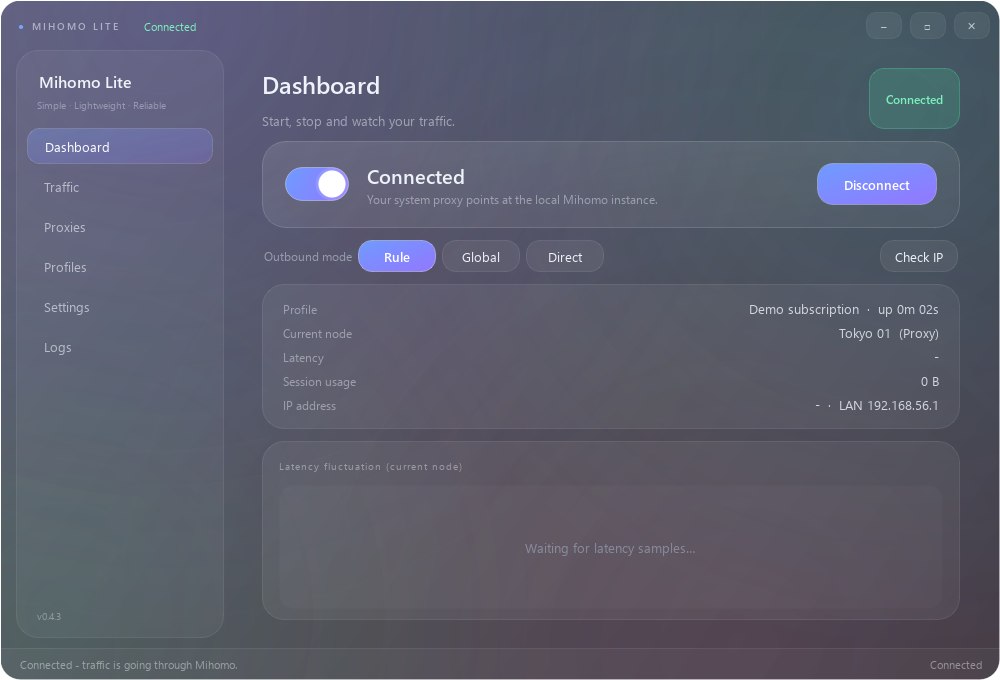
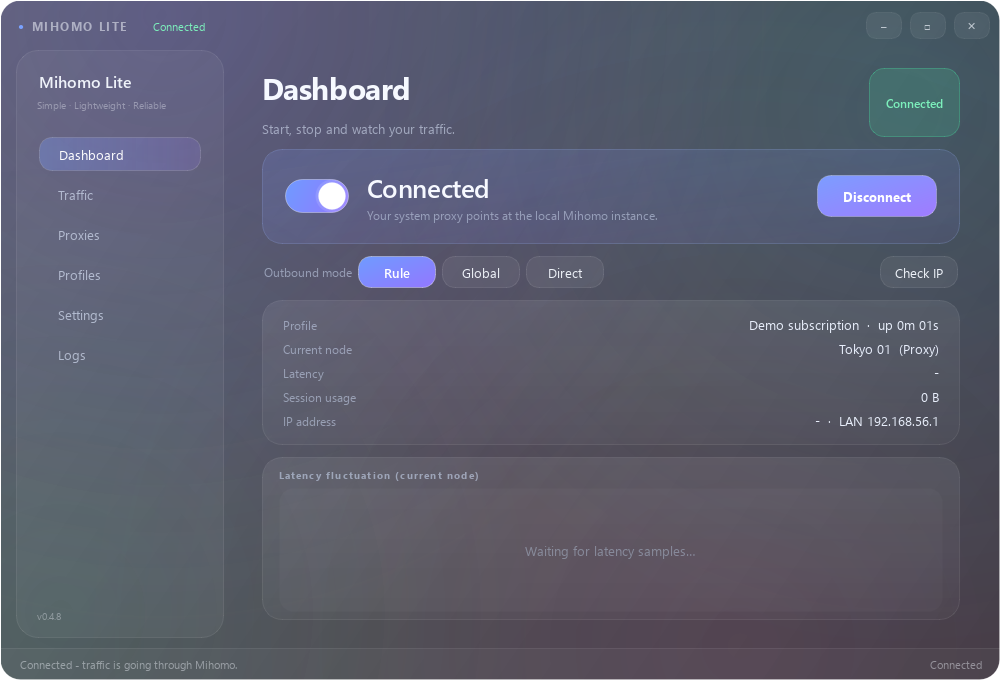
Visual polish pass across all pages; release v0.4.9

diff --git a/src/mihomo_lite/ui/profile_page.py b/src/mihomo_lite/ui/profile_page.py
@@ -48,17 +48,18 @@ class ProfilePage(QWidget):
         root.setContentsMargins(24, 18, 24, 18)
         root.setSpacing(16)
 
-        header = QHBoxLayout()
-        titles = QVBoxLayout()
+        header = QVBoxLayout()
+        header.setSpacing(10)
         title = QLabel("Profiles")
         title.setObjectName("PageTitle")
         subtitle = QLabel("Imports stay untouched; a generated copy runs.")
         subtitle.setObjectName("PageSubtitle")
-        subtitle.setWordWrap(True)
-        titles.addWidget(title)
-        titles.addWidget(subtitle)
-        header.addLayout(titles, 1)
-        header.addStretch(1)
+        header.addWidget(title)
+        header.addWidget(subtitle)
+
+        actions = QHBoxLayout()
+        actions.setSpacing(8)
+        actions.addStretch(1)
 
         self._update_all_button = QPushButton("Update all")
         self._update_all_button.setToolTip("Refresh every subscription that is due")
@@ -69,10 +70,11 @@ class ProfilePage(QWidget):
         self._subscribe_button.clicked.connect(self._add_subscription)
         self._qr_button = QPushButton("Import QR…")
         self._qr_button.clicked.connect(self._import_qr)
-        header.addWidget(self._update_all_button)
-        header.addWidget(self._import_button)
-        header.addWidget(self._qr_button)
-        header.addWidget(self._subscribe_button)
+        actions.addWidget(self._update_all_button)
+        actions.addWidget(self._import_button)
+        actions.addWidget(self._qr_button)
+        actions.addWidget(self._subscribe_button)
+        header.addLayout(actions)
         root.addLayout(header)
 
         self._list = QListWidget()

diff --git a/src/mihomo_lite/ui/main_window.py b/src/mihomo_lite/ui/main_window.py
@@ -7,11 +7,21 @@ import os
 import sys
 from ctypes import wintypes
 
-from PySide6.QtCore import QEvent, QRectF, QSize, Qt, QTimer, Signal
+from PySide6.QtCore import (
+    QEasingCurve,
+    QEvent,
+    QPropertyAnimation,
+    QRectF,
+    QSize,
+    Qt,
+    QTimer,
+    Signal,
+)
 from PySide6.QtGui import QCloseEvent, QColor, QPainter, QPainterPath, QPen
 from PySide6.QtWidgets import (
     QApplication,
     QFrame,
+    QGraphicsOpacityEffect,
     QHBoxLayout,
     QLabel,
     QListWidget,
@@ -319,8 +329,23 @@ class MainWindow(QMainWindow):
 
     def _show_index(self, index: int) -> None:
         page = self._ensure_page(index)
-        if page is not None:
-            self._stack.setCurrentWidget(page)
+        if page is None:
+            return
+        self._stack.setCurrentWidget(page)
+        if os.environ.get("QT_QPA_PLATFORM") == "offscreen":
+            return
+        # Short fade keeps page switches from feeling like a hard cut.
+        effect = QGraphicsOpacityEffect(page)
+        effect.setOpacity(0.35)
+        page.setGraphicsEffect(effect)
+        animation = QPropertyAnimation(effect, b"opacity", page)
+        animation.setDuration(150)
+        animation.setStartValue(0.35)
+        animation.setEndValue(1.0)
+        animation.setEasingCurve(QEasingCurve.Type.OutCubic)
+        animation.finished.connect(lambda: page.setGraphicsEffect(None))
+        page._fade_animation = animation
+        animation.start()
 
     def show_page(self, index: int) -> None:
         if 0 <= index < self._nav.count():

diff --git a/src/mihomo_lite/ui/proxy_page.py b/src/mihomo_lite/ui/proxy_page.py
@@ -3,6 +3,7 @@
 from __future__ import annotations
 
 from PySide6.QtCore import Qt
+from PySide6.QtGui import QBrush, QColor
 from PySide6.QtWidgets import (
     QButtonGroup,
     QHBoxLayout,
@@ -202,8 +203,23 @@ class ProxyPage(QWidget):
                 font = item.font()
                 font.setBold(True)
                 item.setFont(font)
+            colour = self._delay_colour(delay)
+            if colour is not None:
+                item.setForeground(QBrush(QColor(colour)))
             self._node_list.addItem(item)
         self._filter_nodes(self._filter.text())
+
+    @staticmethod
+    def _delay_colour(delay: int | None) -> str | None:
+        if delay is None:
+            return None
+        if delay <= 0:
+            return "#ff8080"
+        if delay <= 120:
+            return "#5fe3a1"
+        if delay <= 300:
+            return "#f5c26b"
+        return "#ff9b7a"
 
     def _filter_nodes(self, text: str) -> None:
         needle = text.strip().lower()

diff --git a/src/mihomo_lite/app.py b/src/mihomo_lite/app.py
@@ -9,6 +9,7 @@ import traceback
 from pathlib import Path
 
 from PySide6.QtCore import QTimer
+from PySide6.QtGui import QFont
 from PySide6.QtWidgets import QApplication, QMessageBox
 
 from mihomo_lite import __app_id__, __app_name__, __version__, i18n
@@ -61,6 +62,10 @@ class MihomoLiteApp:
         self.qt.setApplicationVersion(__version__)
         self.qt.setWindowIcon(app_icon())
         self.qt.setQuitOnLastWindowClosed(False)
+        font = QFont()
+        font.setFamilies(["Segoe UI Variable Text", "Segoe UI", "Inter", "Arial"])
+        font.setPointSizeF(10.0)
+        self.qt.setFont(font)
         install_wheel_guard(self.qt)
 
         self.paths = app_paths()

diff --git a/tools/smoke/traffic_preview.py b/tools/smoke/traffic_preview.py
@@ -24,4 +24,5 @@ for i in range(90):
     app.traffic.sample.emit(TrafficSample(up=up, down=down, up_total=i*up//3, down_total=i*down//3))
     QApplication.processEvents()
 w.grab().save("tools/smoke/traffic_page.png")
+w.grab().save("docs/images/traffic.png")
 print("traffic page rendered")

diff --git a/tools/smoke/ui_connected.py b/tools/smoke/ui_connected.py
@@ -93,7 +93,7 @@ def main() -> int:
     app.window.show_page(0)
     spin(0.3)
     app.window.grab().save(str(out / "dashboard.png"))
-    app.window.show_page(3)
+    app.window.show_page(2)
     spin(1.0)
     app.window.grab().save(str(out / "proxies.png"))
     app.window.show_page(3)

diff --git a/src/mihomo_lite/__init__.py b/src/mihomo_lite/__init__.py
@@ -1,6 +1,6 @@
 """Mihomo Lite - a simple, lightweight and reliable Windows client for Mihomo."""
 
-__version__ = "0.4.8"
+__version__ = "0.4.9"
 __app_name__ = "Mihomo Lite"
 __app_id__ = "MihomoLite"
 

diff --git a/RELEASE_NOTES.md b/RELEASE_NOTES.md
@@ -1,20 +1,31 @@
-# Mihomo Lite v0.4.8
+# Mihomo Lite v0.4.9
 
-Toned-down scroll inertia.
+A visual pass over every page.
 
 ## English
 
-- The momentum after a wheel/touchpad gesture is shorter: one wheel notch now glides about
-  40 px (was ~62 px), the glide velocity decays faster and stops sooner.
-- Trackpad flicks contribute less extra motion while the 1:1 tracking feel is unchanged.
+- New type scale: 30 px page titles, tracked metric labels, clearer secondary text.
+- Cards use a soft vertical gradient and 20 px radius; the connect card has a tinted glass
+  gradient and the primary button a diagonal accent gradient with hover/pressed states.
+- Sidebar selection is a gradient pill with more breathing room; lists share consistent
+  hover and selected states.
+- Proxies colour-code latency (green <= 120 ms, amber <= 300 ms, orange/red above) and the
+  profiles header no longer squeezes its subtitle into a narrow column.
+- Thin, rounded scrollbars; logs use a monospace stack; pages fade in over 150 ms
+  (disabled in headless screenshot runs).
 
-Download `MihomoLite-Setup-0.4.8-x64.exe` or `MihomoLite-v0.4.8-portable-x64.zip`.
+Download `MihomoLite-Setup-0.4.9-x64.exe` or `MihomoLite-v0.4.9-portable-x64.zip`.
 Windows 10/11 x64; the installer is not code-signed yet.
 
 ## 中文
 
-- 惯性力度调低：每格滚轮滑行约 40px（原约 62px），速度衰减更快、更早停下。
-- 触控板滑动附加的惯性减小，跟手感保持不变。
+- 字号层级重做：页面标题 30px，指标标签加字距，次要文字更清晰。
+- 卡片改为柔和竖向渐变 + 20px 圆角；连接卡片带淡色玻璃渐变，主按钮为对角渐变并有
+  hover/pressed 状态。
+- 侧边栏选中项改为渐变胶囊，间距更舒展；各列表统一 hover 与选中样式。
+- 代理页延迟按区间着色（绿色 ≤120ms、琥珀 ≤300ms、橙红更高），Profiles 头部不再把
+  副标题挤成竖排。
+- 细圆角滚动条；日志使用等宽字体；页面切换 150ms 淡入（无头截图时自动禁用）。
 
-下载 `MihomoLite-Setup-0.4.8-x64.exe` 或 `MihomoLite-v0.4.8-portable-x64.zip`。
+下载 `MihomoLite-Setup-0.4.9-x64.exe` 或 `MihomoLite-v0.4.9-portable-x64.zip`。
 支持 Windows 10/11 x64，安装包暂未签名。

diff --git a/README.md b/README.md
@@ -48,6 +48,8 @@ switches nodes, points the Windows system proxy at it, and puts everything back 
 - Optional TUN mode (mixed/system/gVisor stacks) with automatic elevation and wintun setup
 - Automatic subscription updates every 1-48 hours, with the previous file kept as a backup
 - Frameless rounded window with frosted glass (Windows acrylic) in dark and light
+- Refined visual system: larger type scale, gradient cards and primary buttons, colour-coded
+  latency, thin scrollbars, 150 ms page fade and a tidier profiles header
 - Tray icon, start-with-Windows, single-instance guard, connect on launch
 - Log copy/export with secrets redacted, and a live node filter
 - English / 中文 interface switch, public IP check and per-node speed test
@@ -159,6 +161,7 @@ Mihomo Lite 是一个轻量的 Windows 图形客户端，负责启动 Mihomo 内
 - 可选 TUN 模式（mixed/system/gVisor 三种栈），自动请求管理员权限并支持在线安装 wintun
 - 订阅自动更新（1–48 小时可调），更新前保留上一份配置
 - 无边框圆角窗口 + 磨砂玻璃（Windows 亚克力），深浅双主题
+- 视觉体系升级：更大字号层级、渐变卡片与主按钮、延迟颜色分级、细滚动条、150ms 页面淡入
 - 托盘常驻、开机自启、单实例保护、启动即连接
 - 日志一键复制/导出（自动脱敏），节点列表实时过滤
 - 中英文界面切换、公网 IP 检测、节点测速
